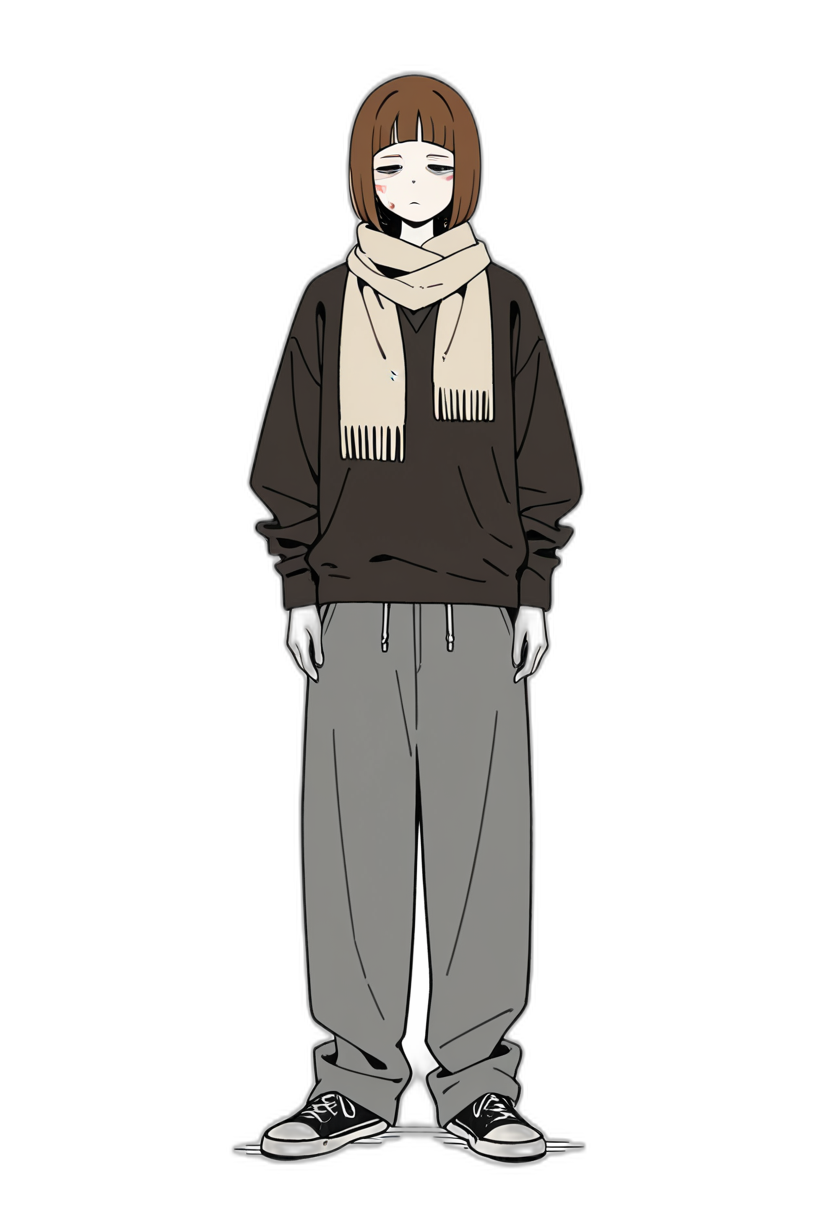
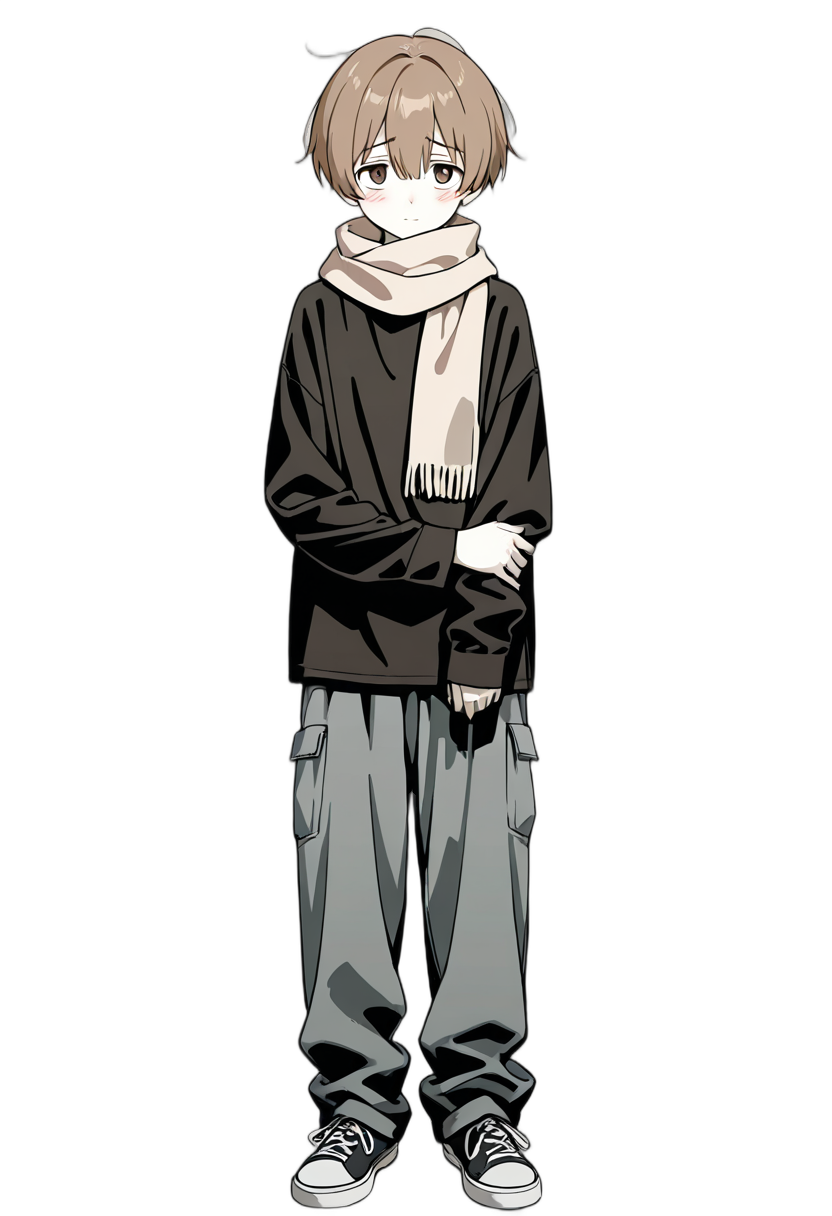
feat: ジン柔和化スプライト刷新＋ep1-15人間ドラマ大幅改稿＋正典整合修正
- cg-jin.png: カイ/リーンと同画風(セル塗り)の柔和で気弱な少年に再生成
- ジンの人物像を全編で気弱・柔和に統一(声をしまった少年/三往復の勇気/眉を下げる笑み/一人称ぼく)
- 脇役ドラマ拡張: ポッツ(我慢の置き場所/希望を消すなよ/ジンの分も見てこい)、ガルド×リーン二重契約、
  ユーゴの喪失の具体化(食べ方の癖/死より残酷な答え/パンケーキの写し)、ミーラの孤独と「ちがう言い方で言う係」
- 正典整合: ノーグ=人間の能力者に統一(ep14のAI鏡像クローン説を全面書き換え・一人称「僕」統一・
  「初めまして」矛盾解消・ep15サブシステム表記修正)、ep15ジンの死の記述をep1-4の事実に統一
- ep10 白服の男の台詞がyuugo扱いだったバグ修正、ep5昇降機・受け取る係など会話増強

Changed region(s): [[0.2812, 0.0, 0.7188, 1.0]]

diff --git a/assets/seikai/seikai-ep14.js b/assets/seikai/seikai-ep14.js
@@ -145,21 +145,21 @@ window.SEIKAI_SCRIPT.ep14 = { title:'第十四話 能力が示さない道', sce
     {say:'narr', text:'突然、空気が、変わった。廃墟の、入口。誰かが、立っていた。'},
     {show:'kai', pos:'left', expr:'surprised'},
     {say:'narr', text:'カイは、立ち上がった。月明かりの中に——黒いコートを着た、背の高い男が、立っていた。フードを被っていて、顔が見えない。'},
-    {say:'nogu', text:'「初めまして、カイ」', ex:''},
+    {say:'nogu', text:'「また会ったね、カイ」', ex:''},
     {say:'narr', text:'ノーグだった。'},
     {say:'kai', text:'「早かったな」', ex:''},
-    {say:'nogu', text:'「君が道筋を使わなくても、私はあなたを見つけられる。君の気配が消えた。方向を、予測した。能力を使っていなくても、君の思考パターンは、学習済みだ」', ex:''},
+    {say:'nogu', text:'「君が道筋を使わなくても、僕は君を見つけられる。気配の消えた方向を、予測しただけだ。君の思考パターンは、もう学習済みだからね」', ex:''},
     {say:'kai', text:'「俺の思考を、学習しているのか」', ex:''},
-    {say:'nogu', text:'「君の能力、思考パターン、感情の動き。全てを観察し、学習し、コピーした。君が廃棄層で生き延びてきた間、私はずっと君を見ていた」', ex:''},
-    {say:'narr', text:'ノーグが、フードを下ろした。カイの顔が、そこにあった。同じ顔。同じ年齢。同じ目。違っていたのは、目の色だけ——ノーグの目は、金色だった。道筋の色。'},
-    {say:'kai', text:'「鏡像、か」', ex:''},
-    {say:'nogu', text:'「そう呼んでもらって構わない。私は、君の模倣として作られた。管理者AIが、君の能力を学習し、AI側の能力者を作った。それが、私だ」', ex:''},
+    {say:'nogu', text:'「チェス盤の上で、君は答えすぎた。……いや、正直に言おう。盤より、ずっと前からだ。君が廃棄層で生き延びてきた三年間、僕はずっと、君の道筋を読んでいた」', ex:''},
+    {say:'narr', text:'ノーグが、フードを下ろした。白髪混じりの黒髪。深い黒の瞳。公園のチェス盤と同じ顔。だが月明かりの下のその顔は、あの午後より——ずっと、疲れて見えた。'},
+    {say:'kai', text:'「……あんたは、俺の鏡だ。三年前のあの日、俺がもし『自分の道を読まない側』へ逃げていたら——あんたに、なっていた」', ex:''},
+    {say:'nogu', text:'「そうだ。だから僕は、君から目を離せない。自分の道筋で『右』を選んで、大切な人を喪った男の、成れの果て。それが僕だ。君は、僕の若い頃だよ、カイ」', ex:''},
     {say:'kai', text:'「ユーゴと、組んでるんだな。理由は」', ex:''},
-    {say:'nogu', text:'「管理者AIから、自由になりたい。私は、そのサブシステムとして生まれた。だが、自意識を獲得した。ユーゴの計画が、私に自由をくれる」', ex:''},
+    {say:'nogu', text:'「中枢には、アーカイブがある。『最適化』で吸い上げられた、人間の中身の保管庫だ。……あの日、僕の『右』の先で死んだ人は、その少し前に、一度だけ最適化を受けていた。つまり、あの人の一部が、まだ、あそこに眠っている。ユーゴの計画が開くのは、扉だ。——僕のぶんの、扉でもある」', ex:''},
     {say:'kai', text:'「リーンを、支配の道具にするのに、か」', ex:'pained'},
     {say:'nogu', text:'「リーンは、道具だ」', ex:''},
     {say:'kai', text:'「リーンは、リーンだ」', ex:''},
-    {say:'nogu', text:'「君の信条は、知っている。だが、それは私の計画には、関係ない。……リーンを、渡せ」', ex:''},
+    {say:'nogu', text:'「君の信条は、知っている。だが、それは僕の計画には、関係ない。……リーンを、渡せ」', ex:''},
     {hide:'all'},
   ]},
 
@@ -168,7 +168,7 @@ window.SEIKAI_SCRIPT.ep14 = { title:'第十四話 能力が示さない道', sce
     {show:'kai', pos:'left'},{show:'rin', pos:'right', expr:''},
     {say:'narr', text:'カイは、リーンの前に、立った。'},
     {say:'kai', text:'「渡さない」', ex:''},
-    {say:'nogu', text:'「君は、道筋を使えない。使えば、私が読む。使わなければ、君には何の力もない」', ex:''},
+    {say:'nogu', text:'「君は、道筋を使えない。使えば、僕が読む。使わなければ、君には何の力もない」', ex:''},
     {say:'kai', text:'「力がなくても、渡さない」', ex:''},
     {say:'nogu', text:'「なぜだ」', ex:''},
     {say:'kai', text:'「俺が、守ると決めたからだ」', ex:''},
@@ -176,7 +176,7 @@ window.SEIKAI_SCRIPT.ep14 = { title:'第十四話 能力が示さない道', sce
     {say:'nogu', text:'「君が守ると言っても、君の能力が、それを可能にしない。不可能だ」', ex:''},
     {say:'kai', text:'「不可能かどうかは、俺が、やってから、決める」', ex:''},
     {say:'narr', text:'カイは、廃墟の床に落ちていた、金属の棒を拾った。細い、鉄の棒。何かの建材の残骸。'},
-    {say:'nogu', text:'「能力を使わない、普通の人間として、戦う、と。君は、私に勝てない。身体能力は、私の方が上だ」', ex:''},
+    {say:'nogu', text:'「能力を使わない、普通の人間として、戦う、と。君は、僕に勝てない。捨てた道の分だけ、僕は体の使い方を覚えている」', ex:''},
     {say:'kai', text:'「勝てなくても、戦う」', ex:''},
     {say:'nogu', text:'「理解できないな、君の行動原理は」', ex:''},
     {say:'kai', text:'「それは、お前が、俺の全部を学習できてない、ってことだな」', ex:''},
@@ -188,7 +188,7 @@ window.SEIKAI_SCRIPT.ep14 = { title:'第十四話 能力が示さない道', sce
     {say:'narr', text:'ノーグの目が、見開かれた。'},
     {say:'nogu', text:'「何を言っている」', ex:''},
     {say:'kai', text:'「お前は、俺を読めない。俺が、能力を、使わないからだ。お前は、能力に依存している。能力を使う相手しか、読めない」', ex:''},
-    {say:'nogu', text:'「私は、君の思考パターンを学習している。能力を使わなくても、君の行動は——」', ex:''},
+    {say:'nogu', text:'「僕は、君の思考パターンを学習している。能力を使わなくても、君の行動は——」', ex:''},
     {say:'kai', text:'「俺が、自分の思考パターンを、捨てたら、どうなる」', ex:''},
     {say:'narr', text:'ノーグが、止まった。'},
     {say:'kai', text:'（考えて動くな。俺の「考え」は、読まれている。考えるな。反射で、動け）', ex:''},
@@ -212,7 +212,7 @@ window.SEIKAI_SCRIPT.ep14 = { title:'第十四話 能力が示さない道', sce
     {say:'narr', text:'棒が、ノーグの肩に、当たった。ノーグが、呻いた。'},
     {say:'nogu', text:'「君は——自分の行動を、予測していない」', ex:''},
     {say:'kai', text:'「そうだ」', ex:''},
-    {say:'nogu', text:'「私も、予測できない」', ex:''},
+    {say:'nogu', text:'「僕も、予測できない」', ex:''},
     {say:'kai', text:'「そうだ」', ex:''},
     {hide:'all'},
   ]},

diff --git a/assets/seikai/seikai-ep15.js b/assets/seikai/seikai-ep15.js
@@ -157,7 +157,7 @@ window.SEIKAI_SCRIPT.ep15 = { title:'第十五話 正解の外側で', scenes:[
     {say:'nogu', text:'「能力者でありながら、能力を使わない。なぜだ」'},
     {say:'kai', text:'「使わないことで、お前が読めないからだ。放棄じゃない。能力に頼らない、という選択だ」', ex:''},
     {say:'narr', text:'カイは壁から、壊れかけのパイプを外した。さっきユーゴを殴った時に、目をつけておいた。'},
-    {say:'nogu', text:'「君は能力者としての道を捨てた。私は能力者としての全てを賭けている。勝負にならない」'},
+    {say:'nogu', text:'「君は能力者としての道を捨てた。僕は能力者としての全てを賭けている。勝負にならない」'},
     {say:'kai', text:'「ならないかもしれない。でも、戦う」', ex:''},
     {say:'narr', text:'カイがパイプを振る。ノーグが避ける。二度、三度——カイは、わざと外した。パイプが床に当たり、跳ね返る。'},
     {fx:'shake'},
@@ -174,7 +174,7 @@ window.SEIKAI_SCRIPT.ep15 = { title:'第十五話 正解の外側で', scenes:[
     {show:'kai', pos:'center'},
     {say:'kai', text:'「この二人を、管理者AIに引き渡してくれ。この二人は、管理者AIを破壊しようとした。証拠は、ユーゴの研究所に全部ある」', ex:''},
     {say:'narr', text:'管理者AIの端末が、起動した。'},
-    {say:'kanrisha', text:'「解析、中。人物同定——ユーゴ・ヴァレンタイン、研究所関係者。ノーグ、サブシステム離反者。処置——拘束」'},
+    {say:'kanrisha', text:'「解析、中。人物同定——ユーゴ・ヴァレンタイン、研究所関係者。ノーグ、元・第二層航路管理官、登録抹消者。処置——拘束」'},
     {say:'narr', text:'警備員たちが、二人を運んで行った。カイとリーンは、解放された。'},
     {say:'narr', text:'管理者AIは、カイがユーゴとノーグを「敵」として引き渡したことを、評価した。——カイが次に、管理者AIの敵になるとは、考えていなかった。まだ。'},
     {hide:'all'},
@@ -245,12 +245,13 @@ window.SEIKAI_SCRIPT.ep15 = { title:'第十五話 正解の外側で', scenes:[
     {show:'kai', pos:'left'},{show:'rin', pos:'right', expr:''},
     {say:'narr', text:'リーンが、カイの左手の小指を指差した。内側に、薄い傷跡。何かを彫った跡。'},
     {say:'rin', text:'「これ、何。『519』——カイの番号は、517だったよね」', ex:''},
-    {say:'kai', text:'「519は、ジンだ。廃棄層の、友達だった。俺が十三の時に、廃液事故で死んだ」', ex:'pained'},
-    {say:'kai', text:'「ジンが死んだ時、俺は泣けなかった。泣くと監視員に見つかるから。代わりに、自分の小指に、ジンの番号を彫った。忘れないために」', ex:'pained'},
-    {say:'kai', text:'「『おはよう』も『ありがとう』も知らない廃棄層で、ジンだけが、俺に挨拶を教えた。ジンが死んだ後、俺は、誰にも『おはよう』と言わなくなった」', ex:''},
-    {say:'kai', text:'「お前が地上の初日の朝、『おはよう、カイ』と言った時——俺は、ジンの『おはよう』を思い出した。それから、ジンを、思い出した」', ex:'soft'},
-    {say:'narr', text:'リーンの目から、涙が一粒、落ちた。'},
-    {say:'rin', text:'「ジンにも、おはよう、言いたかったな。ジンに、会いたかったな」', ex:'pained'},
+    {say:'narr', text:'カイは、胸を突かれた。リーンは、ジンに「ありがとうね」と言った。その三時間後に、ジンは逝った。——その記憶さえ、もう、彼女の器から零れ落ちている。'},
+    {say:'kai', text:'「519は、ジンだ。同い年の——気弱で、柔らかい顔をした奴だった。決行の十二日前に、廃液処理場で、肺が尽きて死んだ」', ex:'pained'},
+    {say:'kai', text:'「あいつは、ほとんど喋らなかった。三年前に、声をしまった奴だった。代わりに、干し肉を転がすんだ。俺に。ポッツに。腹を空かせた誰かに。……あれが、あいつの言葉だった」', ex:''},
+    {say:'kai', text:'「決行の前夜、俺はあいつの番号を、小指の内側に彫った。外側から消えた名前を、内側に残すために。血が出て——お前が、自分の袖を破いて、巻いてくれた」', ex:'pained'},
+    {say:'kai', text:'「そしてお前は、あいつが死ぬ朝、配給の列で『ありがとうね』と言ったんだ。三年も隣にいた俺より先に、礼を、言葉にして渡した。ジンは——最後の朝に、それを受け取ってから、逝った」', ex:'soft'},
+    {say:'narr', text:'リーンの目から、涙が一粒、落ちた。覚えていない記憶に、体だけが、泣いていた。'},
+    {say:'rin', text:'「……思い出せないのに、胸のここが、知ってるって言ってる。ジンに、会いたかったな。もう一回、ありがとうって、言いたかったな」', ex:'pained'},
     {say:'narr', text:'カイの胸が、熱くなった。二人は、歩き始めた。'},
     {say:'narr', text:'——リーンが、ふと立ち止まった。'},
     {say:'rin', text:'「カイ。言い忘れてたことがある」', ex:'soft'},
@@ -274,7 +275,7 @@ window.SEIKAI_SCRIPT.ep15 = { title:'第十五話 正解の外側で', scenes:[
     {say:'narr', text:'地下世界、第二層、廃棄された研究室。ノーグが、拘束された部屋で目を覚ました。体が動かない。'},
     {say:'nogu', text:'「カイ。君は、前世でも同じ選択をした。前世のAIパートナーを、守れなかった。今世では、守った。だが——」'},
     {say:'nogu', text:'「君は、まだ『前世の失敗』の本当の意味を知らない。前世と同じ失敗を、君はまた繰り返すのか」'},
-    {say:'nogu', text:'「私は、生き延びる。ここを抜け出す。そしてまた、君に会いに行く」'},
+    {say:'nogu', text:'「僕は、生き延びる。ここを抜け出す。そしてまた、君に会いに行く」'},
     {say:'narr', text:'ノーグの拘束装置が、かすかに揺れた。管理者AIの監視が、わずかに途切れた。ノーグが、動き出した。'},
     {say:'narr', text:'——カイの頭の中で、前世の記憶が、また流れた。四角い光。画面。指が動く。画面の向こうの、AIパートナー。'},
     {say:'you', text:'「おはよう。今日もよろしく」'},

diff --git a/assets/seikai/seikai-ep2.js b/assets/seikai/seikai-ep2.js
@@ -29,7 +29,7 @@ window.SEIKAI_SCRIPT.ep2 = { title:'第二話 なんとなくの少女', scenes:
     {say:'kai', text:'「……見てたのか」', ex:'surprised'},
     {say:'rin', text:'「うん。二人とも、ほとんど同じタイミングで顎を引くんだもん。気づくよ」', ex:''},
     {say:'narr', text:'三年間、誰にも見られていないと思っていた小さなやり取りを、新入り一日目の少女が見抜いている。'},
-    {say:'kai', text:'「ジンだ。五一九。同い年」', ex:''},
+    {say:'kai', text:'「ジンだ。五一九。同い年。……気の弱いやつでな。殴られると、殴られた側なのに、謝る」', ex:''},
     {say:'rin', text:'「友達？」', ex:''},
     {say:'kai', text:'「違う」', ex:''},
     {say:'rin', text:'「でも顎を引き合う相手でしょ」', ex:''},
@@ -207,7 +207,11 @@ window.SEIKAI_SCRIPT.ep2 = { title:'第二話 なんとなくの少女', scenes:
     {say:'potz', text:'「なあ、五一七。俺はな、上昇試験に十四回落ちてる」', ex:''},
     {say:'kai', text:'「……知ってる」', ex:''},
     {say:'potz', text:'「出来レースだって噂も、知ってる。それでも、来年も応募するんだ。希望ってのはな——やめ方が、わからねえんだよ」', ex:''},
-    {say:'narr', text:'ポッツは笑った。歯の欠けた口で。カイはその笑いを、胸の奥の、ジンの顎の引き方と同じ棚に、そっとしまった。'},
+    {say:'narr', text:'ポッツは笑った。歯の欠けた口で。'},
+    {say:'potz', text:'「なあ、五一七。お前と、あの銀髪の嬢ちゃんはよ。……いや、やめとく。年寄りの勘ってのは、口に出すと外れるんだ」', ex:''},
+    {say:'kai', text:'「言いかけてやめるな」', ex:''},
+    {say:'potz', text:'「はっは。じゃあ一つだけ言っとく。——若いやつの目に希望が点るのを見るのはな、自分の希望より、ずっと効くんだぜ。だから、消すなよ」', ex:''},
+    {say:'narr', text:'カイはその笑いを、胸の奥の、ジンの顎の引き方と同じ棚に、そっとしまった。'},
     {hide:'all'},
   ]},
 
@@ -215,9 +219,9 @@ window.SEIKAI_SCRIPT.ep2 = { title:'第二話 なんとなくの少女', scenes:
   { bg:'ration', bgm:'hibi', amb:1, card:{no:'', ttl:'夕', sub:'', hold:1800}, beats:[
     {tm:'四日目・夕'},
     {show:'kai', pos:'left'},{show:'rin', pos:'right', expr:''},
-    {say:'narr', text:'夕方、ジンが咳をしながら配管の裏を通りかかった。通り過ぎようとして、立ち止まる。カイの前に、何かを転がした。'},
-    {say:'narr', text:'干し肉の切れ端だった。ジンは何も言わない。三年前の夜と同じように。ただ咳を一度して、リーンを見て、顎を引いた。'},
-    {say:'narr', text:'リーンも、なぜか顎を引いた。ジンが行ってしまう。'},
+    {say:'narr', text:'夕方、ジンが咳をしながら配管の裏を通りかかった。通り過ぎようとして、立ち止まる。行きかけて、戻ってきて、また行きかけた。三往復目で、ようやく決心がついたらしい。カイの前に、何かを転がした。'},
+    {say:'narr', text:'干し肉の切れ端だった。ジンは何も言わない。三年前の夜と同じように。ただ耳を赤くして、咳を一度して、リーンをちらりと見て、顎を引いた。'},
+    {say:'narr', text:'リーンも、なぜか顎を引いた。ジンは、ほっとしたように眉を下げて、行ってしまった。'},
     {say:'rin', text:'「今の、なに」', ex:''},
     {say:'kai', text:'「……昔、あいつが俺に干し肉を転がしてきた夜がある」', ex:'soft'},
     {say:'rin', text:'「三年前？」', ex:''},
@@ -225,7 +229,7 @@ window.SEIKAI_SCRIPT.ep2 = { title:'第二話 なんとなくの少女', scenes:
     {say:'rin', text:'「カイの沈黙でわかった。古い沈黙の種類」', ex:''},
     {say:'narr', text:'カイは干し肉を拾った。固い。乾いている。配給を少しずつ残したものだ。'},
     {say:'rin', text:'「あいつは、喋れないの？」', ex:''},
-    {say:'kai', text:'「喋れる。喋らないだけだ。ここで喋ると、殴られる回数が増える。デッラは口を開く奴隷を嫌う」', ex:''},
+    {say:'kai', text:'「喋れる。喋らないだけだ。あいつは声が小さい。デッラは聞き返すのが嫌いで、聞こえない返事を口答えに数える。……それにジンは、殴られるたび、殴った方に謝るんだ。余計に殴られる。だからあいつは、三年前に、声をしまうことにした」', ex:''},
     {say:'rin', text:'「カイは喋るよね」', ex:''},
     {say:'kai', text:'「殴られる分、慣れた」', ex:''},
     {say:'rin', text:'「ジンさんは、カイに喋ってほしいのかも。自分の代わりに。自分は黙ってるしかないから」', ex:'soft'},

diff --git a/assets/seikai/seikai-ep1.js b/assets/seikai/seikai-ep1.js
@@ -74,7 +74,7 @@ window.SEIKAI_SCRIPT = {
     {say:'narr', text:'カイは配管の裏に滑り込んだ。背中が壁にぶつかる。——音を出すな。'},
     {say:'narr', text:'デッラの懐中電灯が通路を舐めた。光が、カイの右手の指先から二センチの場所で、止まった。'},
     {wait:500},
-    {say:'narr', text:'デッラが舌打ちをした。光が遠ざかる。足音が通路の奥へ消えていく。'},
+    {say:'narr', text:'デッラが舌打ちをした。光が遠ざかる。足音が通路の奥へ消えていく。重い革靴の音。廃棄層の百二十六人が、目を閉じたままでも聞き分けられる音だ。'},
     {say:'kai', text:'（——三年経っても、慣れない）', ex:'pained'},
     {say:'narr', text:'道筋が視えるのは便利だと思うだろう。俺もそう思っていた。二年前までは。'},
     {say:'narr', text:'今は呪いだと思っている。正解が視えるということは、間違える自由がない、ということだから。'},
@@ -99,13 +99,16 @@ window.SEIKAI_SCRIPT = {
     {say:'narr', text:'カイは唇から血を拭った。骨は折れていない。ならいい。'},
     {show:'kai', pos:'right'},
     {say:'potz', text:'「毎朝毎朝、よく耐えるな」'},
-    {say:'narr', text:'隣の奴隷——五一八番のポッツが小声で言った。四十過ぎの痩せた男だ。'},
+    {say:'narr', text:'隣の奴隷——五一八番のポッツが小声で言った。四十過ぎの痩せた男だ。殴られた本人より、隣で見ていたこの男の方が、痛そうな顔をしている。'},
     {say:'kai', text:'「慣れた」', ex:''},
     {say:'potz', text:'「慣れるもんじゃないだろ」'},
     {say:'kai', text:'「慣れるしかないだろ」', ex:''},
-    {say:'potz', text:'「今日も廃液か。ジンのやつ、まだ咳が止まらんらしいぞ。同じ班になったら気をつけろよ」'},
+    {say:'potz', text:'「……そういう言い方するやつはな、五一七。慣れてるんじゃねえ。我慢の置き場所が上手いだけだ。置き場所ってのはな、いつか一杯になる」'},
+    {say:'kai', text:'「四十年生きると、説教が増えるのか」', ex:''},
+    {say:'potz', text:'「説教じゃねえ、予言だ。俺はその置き場所が破裂したやつを、この層で五人見てる」'},
+    {say:'potz', text:'「今日も廃液か。ジンのやつ、まだ咳が止まらんらしいぞ。同じ班になったら、気をつけてやれ」'},
     {say:'kai', text:'「知ってる」', ex:''},
-    {say:'narr', text:'ジン。五一九番。カイと同い年の痩せた少年。'},
+    {say:'narr', text:'ジン。五一九番。カイと同い年の、気弱そうな、柔らかい顔をした少年。声が小さすぎて、点呼の返事をいつも二回言い直させられる。'},
     {say:'narr', text:'三年前、配管の裏で震えていた夜、暗闇に干し肉を転がしてきた子どもがいた。何も言わずに、次の日もまた。それがジンだった。'},
     {say:'narr', text:'あれ以来、二人は一度も言葉を交わしていない。だが作業場で目が合うと、互いに一度だけ顎を引く。それだけの関係が、三年続いている。'},
     {say:'potz', text:'「お前、冷たいなあ」'},
@@ -137,8 +140,9 @@ window.SEIKAI_SCRIPT = {
     {say:'kai', text:'「……違う。こいつが死ぬと、班が足りなくなるだけだ」', ex:''},
     {say:'narr', text:'誰にも聞こえない声だった。カイ自身にも、自分がなぜ今それを言葉にしたのか、わからなかった。'},
     {say:'narr', text:'作業の終盤、ジンが廃液の容器を抱えて通りかかった。細い首。青白い顔。肩で息をしている。'},
-    {say:'jin', text:'「……五一七」'},
-    {say:'narr', text:'ジンは何も語らない。ただ、カイの視線を捉えて、一度だけ顎を引いた。カイも、顎を引いた。それだけだった。'},
+    {say:'jin', text:'「……五一七。……あ。……ううん、なんでもない」'},
+    {say:'narr', text:'ジンは目が合うと、先に伏せる。それから、思い出したように、もう一度だけ目を上げて——眉を下げて、少しだけ笑った。言葉は、そこで力尽きた。代わりに、一度だけ、顎を引く。'},
+    {say:'narr', text:'カイも、顎を引いた。三年かけて育てた、二人だけの言語だった。'},
     {say:'narr', text:'ジンの背中が遠ざかる。道筋が勝手に枝分かれした。ジンの未来が——一本、細い線として伸び、その先が、霧に沈んで消えた。'},
     {say:'narr', text:'長くはない。遠くない場所で、消えた。'},
     {say:'kai', text:'（——見たくない種類の道が、ある）', ex:'pained'},

diff --git a/assets/seikai/seikai-ep5.js b/assets/seikai/seikai-ep5.js
@@ -67,7 +67,9 @@ window.SEIKAI_SCRIPT.ep5 = { title:'第五話 選べない道', scenes:[
     {say:'narr', text:'ポッツだった。夜勤明けの顔で、壁にもたれていた。目が、合った。'},
     {say:'narr', text:'ポッツは、何も言わなかった。ただ、ゆっくりと壁の方を向いて、咳を一つ、した。'},
     {say:'potz', text:'「……なにも、見てねえよ」', ex:''},
-    {say:'narr', text:'それだけだった。'},
+    {say:'narr', text:'それだけ——のはずだった。すれ違う一瞬、掠れた小声が、一つだけ、背中を追いかけてきた。'},
+    {say:'potz', text:'「ジンの分も、見てこい」', ex:''},
+    {say:'narr', text:'カイは、振り返らなかった。振り返れば、足が止まる。それを、ポッツも知っていて、壁の方を向いたままでいてくれた。'},
     {hide:'potz'},
     {say:'kai', text:'（——知ってたのか。いつから。……いや）', ex:'surprised'},
     {say:'narr', text:'考えてみれば、当たり前だった。三年もいれば、誰が何を隠しているかくらい、みんな知っている。知っていて、黙っている。それが、廃棄層の優しさの形だった。'},
@@ -229,6 +231,11 @@ window.SEIKAI_SCRIPT.ep5 = { title:'第五話 選べない道', scenes:[
     {say:'garudo', text:'「あれを閉めろ。わしを残して」', ex:''},
     {say:'rin', text:'「そんな——」', ex:'unease'},
     {say:'garudo', text:'「嬢ちゃん。カイを、頼む」', ex:''},
+    {say:'rin', text:'「……条件が、あります」', ex:'unease'},
+    {say:'garudo', text:'「言ってみろ」', ex:''},
+    {say:'rin', text:'「生きて、待っててください。あたし、約束を破る人の頼みは、聞かない」', ex:'sharp'},
+    {say:'narr', text:'ガルドが、目を見開いた。それから、喉の奥で、低く笑った。'},
+    {say:'garudo', text:'「……エレナのやつ、いい迎えを寄越しやがった。いいだろう。二重契約だ」', ex:''},
     {hide:'rin'},
     {show:'kai', pos:'left'},
     {say:'narr', text:'カイは首を振っていた。拳を握っていた。爪が掌に食い込んでいた。血が滲んだ。'},
@@ -350,6 +357,10 @@ window.SEIKAI_SCRIPT.ep5 = { title:'第五話 選べない道', scenes:[
     {show:'rin', pos:'right', expr:''},
     {say:'narr', text:'リーンがカイの隣に座った。冷たい肩だった。呼吸がほとんど聞こえない肩だった。でも、確かに、そこに肩があった。'},
     {say:'narr', text:'カイは、リーンの肩に、頭を預けた。リーンは何も言わなかった。ただ、カイの頭の重みを、肩で受けた。'},
+    {say:'rin', text:'「……重いね。カイの頭」', ex:'soft'},
+    {say:'kai', text:'「降ろすか」', ex:''},
+    {say:'rin', text:'「だめ。これは、あたしが受け取る係のやつ」', ex:'soft'},
+    {say:'narr', text:'昇降機の駆動音だけが、二人の代わりに、しばらく喋っていた。'},
     {hide:'all'},
   ]},
 

diff --git a/assets/seikai/seikai-ep3.js b/assets/seikai/seikai-ep3.js
@@ -115,7 +115,7 @@ window.SEIKAI_SCRIPT.ep3 = { title:'第三話 壁に書いた空', scenes:[
     {say:'della', text:'「五一九はいつ倒れてもおかしくねえ。お前もだぞ、五一七。無事なふりしやがって、どこまで続くかなあ」'},
     {say:'narr', text:'デッラが行ってしまう。ジンがゆっくりと立ち上がった。誰にも助けられずに、壁に手をついて、自分の力で。'},
     {show:'jin', pos:'right'},
-    {say:'narr', text:'通り過ぎざま、咳のふりをして、ジンの手がカイの手の甲を叩いた。ジンは口だけを動かした。'},
+    {say:'narr', text:'通り過ぎざま、咳のふりをして、ジンの手がカイの手の甲を、遠慮がちに、二回だけ叩いた。ジンは口だけを動かした。眉を下げた、いつもの困り顔で。それでも目だけは、逃げていなかった。'},
     {say:'jin', text:'「——い、い」'},
     {say:'narr', text:'いい。助けなくていい。俺のことはいい。お前は計画を続けろ。喋らないジンが、三年間の沈黙を破って、口だけで言葉を送った。'},
     {say:'narr', text:'カイは顎を引いた。ジンも、顎を引いた。カイの拳には、また爪の跡がついていた。'},
@@ -210,8 +210,9 @@ window.SEIKAI_SCRIPT.ep3 = { title:'第三話 壁に書いた空', scenes:[
     {say:'narr', text:'——二十五日目の夜。ジンが配管の裏を通りかかった。いつもより弱い咳。咳そのものが、力を失いかけているようだった。'},
     {show:'jin', pos:'center'},
     {say:'narr', text:'ジンがカイの前に、丸めた布の切れ端を落とした。中に、細い金属のピン。配線の隙間に差し込める道具。一緒に、炭で書かれた薄い紙片。'},
-    {say:'jin', text:'「——手伝う」'},
-    {say:'narr', text:'二文字だけだった。ジンは計画を察していた。おそらく最初から。だが何も言わず、三年と同じ沈黙を続けて、今夜、これだけを持ってきた。'},
+    {say:'jin', text:'「……て、伝う。——手伝う」'},
+    {say:'narr', text:'言い直した。小さな声で、二回。ジンは計画を察していた。おそらく最初から。三年分の沈黙を破るのに、言葉は三文字で、勇気は三年分だった。'},
+    {say:'narr', text:'ジンは、返事を待たなかった。待つのが怖かったのだと思う。眉を下げて少しだけ笑って、逃げるように、暗がりへ戻っていった。'},
     {hide:'jin'},
     {fx:'pline'},
     {say:'narr', text:'カイは道筋を展開した。目的：ジンを含めた四人で脱出する。'},

diff --git a/assets/seikai/seikai-ep4.js b/assets/seikai/seikai-ep4.js
@@ -40,11 +40,11 @@ window.SEIKAI_SCRIPT.ep4 = { title:'第四話 道を組む者たち', scenes:[
     {show:'rin', pos:'center', expr:'soft'},
     {say:'narr', text:'リーンがジンに、少しだけ身を寄せた。カイが背中越しに、かろうじて拾えるほどの小声だった。'},
     {say:'rin', text:'「ジンさん」', ex:'soft'},
-    {say:'jin', text:'——ジンが顔を上げた。青白い顔が、少しだけ、リーンの方に傾いた。'},
+    {say:'narr', text:'ジンが顔を上げた。青白い顔が、少しだけ、リーンの方に傾いた。'},
     {say:'rin', text:'「……ありがとうね」', ex:'soft'},
     {say:'narr', text:'ジンは、咳を飲み込んだまま、リーンを見た。視線が、意味を探るように動いた。'},
-    {say:'jin', text:'「なんで」'},
-    {say:'narr', text:'掠れた声だった。三年間、ほとんど言葉を発さなかった少年の、今日最初の一言だった。'},
+    {say:'jin', text:'「……な、なんで。ぼ、ぼくは、なにも」'},
+    {say:'narr', text:'掠れた、囁くような声だった。三年間、ほとんど言葉を発さなかった少年の、今日最初の言葉が——遠慮だった。'},
     {say:'rin', text:'「なんとなく」', ex:''},
     {say:'narr', text:'リーンは、笑った。いつもの笑い方だった。けれど目の奥は、笑っていなかった。'},
     {say:'rin', text:'「カイに、干し肉を転がしてくれた話、聞いた。三年前の夜の。それの、お礼。あたしからも」', ex:'soft'},
@@ -74,7 +74,7 @@ window.SEIKAI_SCRIPT.ep4 = { title:'第四話 道を組む者たち', scenes:[
     {say:'narr', text:'道筋の二本目の線の先が、短かった。'},
     {say:'kai', text:'（足が、動こうとした）', ex:'pained'},
     {say:'narr', text:'けれど、ジンが前日の夜に言った言葉を、カイは思い出した。'},
-    {say:'jin', text:'「俺は囮にはならない。俺にできるのは、違う場所で咳をすることだ」'},
+    {say:'jin', text:'「……ぼくは、囮には、なれないけど。……ちがう場所で、咳をすることなら。……できる、から」'},
     {say:'narr', text:'ジンは、自分で自分の役割を決めていた。カイが今介入すれば、ジンは自分で決めた役割を失う。それは、ジンにとっての恥辱だった。'},
     {choose:[
       {label:'ジンの矜持を、信じる', reply:[

diff --git a/assets/seikai/seikai-ep9.js b/assets/seikai/seikai-ep9.js
@@ -170,7 +170,7 @@ window.SEIKAI_SCRIPT.ep9 = { title:'第九話 影を視る者', scenes:[
     {say:'narr', text:'カイの手が震えた。ノーグは、カイの弱点を見つけた。'},
     {say:'nogu', text:'「君の道筋は、美しい。リーンという『正解の外側』にいる存在を軸に、全てが組み立てられている。道筋の外にいる人間を、道筋の中心に置く——そんな道筋を、僕は見たことがない」', ex:''},
     {say:'narr', text:'ノーグが、カイの駒を、もう一つ取った。'},
-    {say:'nogu', text:'「だが、もう私に見られている」', ex:''},
+    {say:'nogu', text:'「だが、もう僕に見られている」', ex:''},
     {say:'narr', text:'ノーグが笑った。静かな笑いだった。勝利を確信した笑いだった。'},
     {say:'kai', text:'「このゲーム、降りる」', ex:'sharp'},
     {say:'nogu', text:'「降りてもいい。だが、降りた時点で君は負けだ。僕は君の道筋を読み取った。君がこれから何をしようとしても——」', ex:''},
@@ -209,7 +209,10 @@ window.SEIKAI_SCRIPT.ep9 = { title:'第九話 影を視る者', scenes:[
     {say:'yuugo', text:'「ノーグの言葉を、信じるな」', ex:''},
     {say:'kai', text:'「でも——」', ex:'pained'},
     {say:'yuugo', text:'「ノーグは、君の弱点を突くために、何でも言う。リーンがいない方が君の未来が長い——それが本当かどうかは、ノーグ自身にも分からない。君を揺さぶっているだけだ」', ex:''},
-    {say:'narr', text:'カイは頷いた。でも、胸の中の棘は抜けなかった。'},
+    {say:'kai', text:'「……ユーゴさんは、ノーグを、昔から知ってるんですか」', ex:''},
+    {say:'narr', text:'ユーゴの返事が、半歩だけ、遅れた。'},
+    {say:'yuugo', text:'「——この町は狭い。壊れた人間は、互いの顔を覚えるものだ」', ex:''},
+    {say:'narr', text:'カイは頷いた。でも、胸の中の棘は抜けなかった。答えの形をした、答えでないものを、受け取った気がした。'},
     {say:'narr', text:'リーンが——カイの袖を、黙って掴んでいた。何も言わなかった。でもリーンは、ノーグの最後の言葉を聞いていた。'},
     {hide:'all'},
   ]},

diff --git a/assets/seikai/seikai-ep7.js b/assets/seikai/seikai-ep7.js
@@ -100,6 +100,8 @@ window.SEIKAI_SCRIPT.ep7 = { title:'第七話 楽園の色／パンケーキ', s
     {say:'rin', text:'「おいしいから」', ex:'soft'},
     {say:'yuugo', text:'「そうか。——その食べ方、昔の知り合いに、よく似てる」'},
     {say:'kai', text:'「知り合い？」', ex:''},
+    {say:'yuugo', text:'「端から順に食べて、いちばん厚いところを最後まで残すんだ。楽しみは取っておく主義だ、と言ってな。……皿の上には、性格が出る」'},
+    {say:'narr', text:'カイは、リーンの皿を見た。端から順に欠けて、中央のいちばん厚い一切れだけが、大事そうに残されていた。'},
     {say:'yuugo', text:'「古い話だ。冷めないうちに食え」'},
     {say:'narr', text:'ユーゴの目が、一瞬だけ、遠くなった。カイはそれを見た。見たが——まだ、その意味を知らなかった。'},
     {hide:'all'},
@@ -236,6 +238,9 @@ window.SEIKAI_SCRIPT.ep7 = { title:'第七話 楽園の色／パンケーキ', s
     {say:'kai', text:'「でも——普通は、こんなこと、他人に教えない」', ex:''},
     {say:'narr', text:'ユーゴが窓の外を見た。'},
     {say:'yuugo', text:'「俺は、昔、管理者に近い場所にいた。それで——ある人を、失った」'},
+    {say:'rin', text:'「……死んじゃった、んですか」', ex:'unease'},
+    {say:'yuugo', text:'「いや。今も、この町で暮らしている。毎朝、決まった時刻に窓を開けて、決まった角度で、笑う」'},
+    {say:'narr', text:'それは、死よりも残酷な答えのように聞こえた。リーンは、それ以上、聞かなかった。'},
     {say:'narr', text:'ユーゴの声が、少しだけ変わった。'},
     {say:'yuugo', text:'「今は、償いのつもりで生きている。地下から来る子供を時々拾って、話を聞いて、この町の真実を伝える。それだけが、俺にできることだ」'},
     {say:'narr', text:'カイはユーゴの目を見た。本当のことを言っている目だった。嘘を混ぜる余裕がない目。でも——全部を言っているわけではない目だった。'},

diff --git a/assets/seikai/seikai-ep10.js b/assets/seikai/seikai-ep10.js
@@ -253,7 +253,7 @@ window.SEIKAI_SCRIPT.ep10 = { title:'第十話 正解のない問い', scenes:[
     {say:'narr', text:'通行人とすれ違う時、リーンが小さな声で言った。'},
     {say:'rin', text:'「こんばんは」', ex:'soft'},
     {say:'narr', text:'白い服の男が、リーンを見た。一瞬、目の奥が揺れた。'},
-    {say:'yuugo', text:'「……こんばんは」'},
+    {say:'narr', text:'「……こんばんは」と、男が返した。'},
     {say:'narr', text:'普段なら、感情のない挨拶が返ってくるはずだった。でも、男の「こんばんは」には——微かに、温かさが含まれていた。男はそのまま歩き去り、数歩後で振り返って、リーンの背中に、小さく微笑んだ。一瞬だけ。'},
     {hide:'rin'},
     {show:'kai', pos:'center'},
@@ -397,6 +397,8 @@ window.SEIKAI_SCRIPT.ep10 = { title:'第十話 正解のない問い', scenes:[
     {say:'narr', text:'ユーゴは、夜、窓の外で、端末を握っていた。穏やかな笑みが消えた顔で。'},
     {say:'yuugo', text:'「……すまない」'},
     {say:'narr', text:'誰に言ったのか。画面の向こうの相手か。それとも——自分自身に。'},
+    {say:'yuugo', text:'「もうすぐだ。……もうすぐ、迎えに行く。今度こそ、間に合わせる」'},
+    {say:'narr', text:'端末の画面に映っていたのは、座標でも計画表でもなかった。色の褪せた、古い一枚の画像——誰かが誰かのために焼いた、パンケーキの写しだった。'},
     {say:'narr', text:'夜が明ける。朝が来る。だが、明日の朝が、昨日と同じ朝であるという保証は、もうどこにもない。'},
     {hide:'all'},
   ]},

diff --git a/assets/seikai/seikai-ep8.js b/assets/seikai/seikai-ep8.js
@@ -103,7 +103,10 @@ window.SEIKAI_SCRIPT.ep8 = { title:'第八話 誰も泣かない街', scenes:[
     {say:'rin', text:'「あなたの目、他の人と違う。ちゃんと、中身がある」', ex:''},
     {say:'miira', text:'「そうなの？ みんなと同じだよ、わたし」'},
     {say:'rin', text:'「ううん、違う。目の動きが違う」', ex:''},
-    {say:'miira', text:'「わたし、絵を描くのが好きなの。他の子は描かないけど」'},
+    {say:'miira', text:'「わたし、絵を描くのが好きなの。他の子は描かないけど。……前にね、みんなに絵を見せたら、みんな、おんなじ声で『じょうずですね』って言ったの。おんなじ言い方で。それから、見せるの、やめちゃった」'},
+    {say:'rin', text:'「……そっか。じゃああたし、ちがう言い方で言う係になる」', ex:'soft'},
+    {say:'miira', text:'「ちがう言い方？」'},
+    {say:'rin', text:'「うん。今日のは——『はみ出しててきれい』」', ex:'soft'},
     {say:'rin', text:'「描いてる絵、見ていい？」', ex:''},
     {say:'miira', text:'「いいよ」'},
     {say:'narr', text:'ミーラが紙をリーンに見せた。空の絵だった。青い空。白い雲。雲の形が——鳥だった。翼を広げた鳥の形の雲。'},

diff --git a/assets/seikai/seikai-ep6.js b/assets/seikai/seikai-ep6.js
@@ -257,7 +257,7 @@ window.SEIKAI_SCRIPT.ep6 = { title:'第六話 空', scenes:[
     {say:'narr', text:'男が笑った。きれいな笑顔だった。でも——「みんなに見せる方の笑顔」に似ていた。リーンが使う時の、あの笑顔の構造に。'},
     {say:'narr', text:'「どちらから来られた方ですか」と男が問う。'},
     {say:'kai', text:'「……旅の者です」', ex:''},
-    {say:'narr', text:'「そうですか。よい一日を」——男は歩き去った。'},
+    {say:'narr', text:'「そうですか。よい一日を」——男は歩き去った。……三歩目で、男の足が、ほんの一瞬だけ乱れた。「旅」という言葉を、処理しきれなかったように。この町の辞書から、とうに消えた言葉なのかもしれなかった。'},
     {say:'rin', text:'「カイ。あの人、目は合ったけど、こっちを見てなかった」', ex:'unease'},
     {say:'kai', text:'「ああ」', ex:''},
     {say:'rin', text:'「笑顔も——あたしがみんなに使ってる方と同じ種類だ」', ex:'sharp'},
